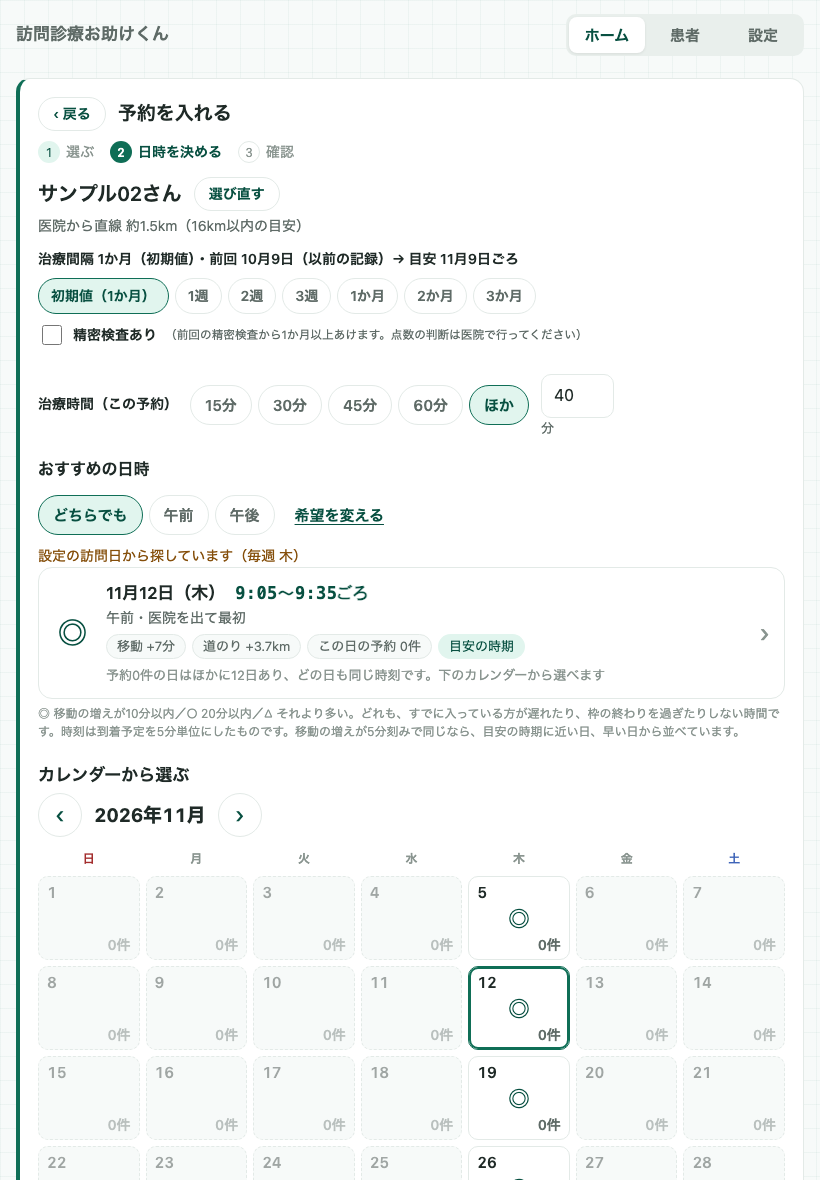
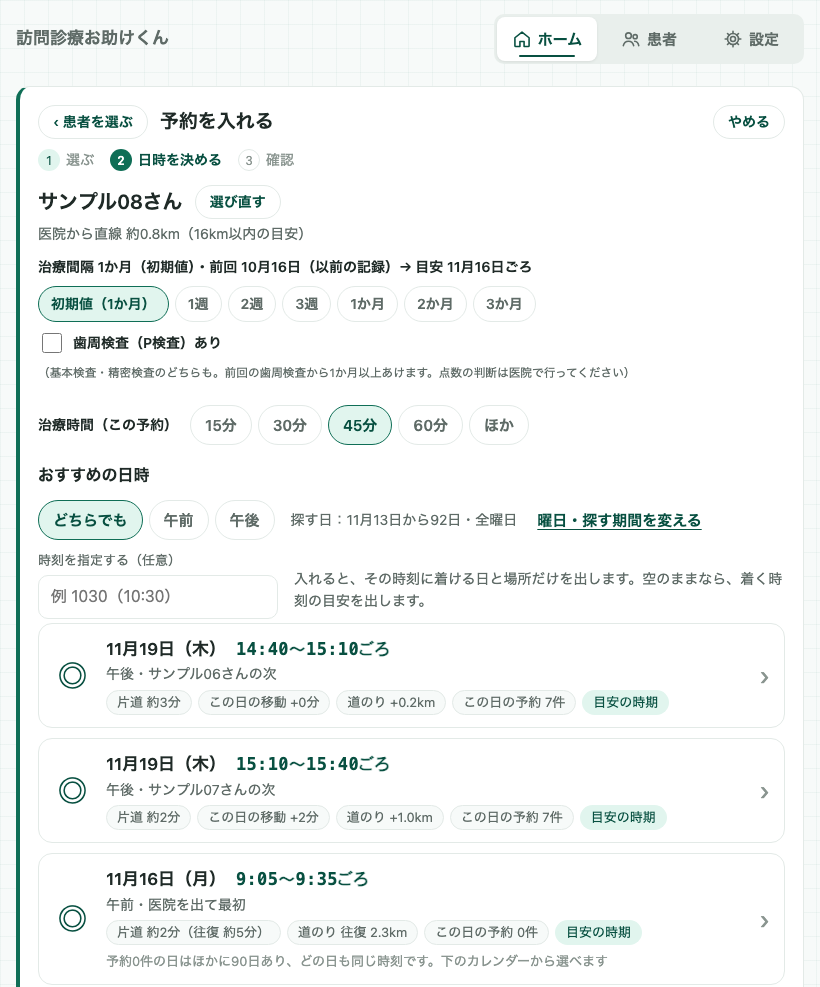
otasuke: retake the three app screens (app-day, app-book, app-confirm) from the current app; app-book at its natural height; alt texts as the new screens show

diff --git a/docs/otasuke/index.html b/docs/otasuke/index.html
@@ -435,7 +435,7 @@
     .benri-sec { background: var(--paper-deep); }
     .benri { display: grid; grid-template-columns: repeat(2, 1fr); gap: 18px; margin-top: 130px; }
     .benri-note { margin-top: 22px; font-size: 13px; color: var(--ink-faint); }
-    .feat-visual .device.wide img { aspect-ratio: auto; }
+    .feat-visual .device.wide img, .device.natural img { aspect-ratio: auto; }  /* app-book ends under the suggestions (shot_lp_app.py) */
     .feat-visual .paper-sheet { position: absolute; width: 40%; height: auto; top: -4%; right: -2%; transform: rotate(5deg); box-shadow: 0 24px 40px -24px rgba(30,40,35,.55); border: 1px solid var(--rule); background: #fff; z-index: 0; }
     .feat-visual .device.wide { position: relative; z-index: 1; max-width: none; margin: 0 24% 0 0; }
     @media (max-width: 900px) { .feat-visual .paper-sheet { width: 38%; right: 0; } }
@@ -500,8 +500,8 @@
       </div>
 
       <div class="hero-visual">
-        <div class="device back"><img src="/otasuke/img/app-book.png" alt="予約を入れる画面。おすすめの日時とカレンダー" width="820" height="1180"></div>
-        <div class="device front"><img src="/otasuke/img/app-day.png" alt="その日の訪問の画面。到着の目安と順番" width="820" height="1060"></div>
+        <div class="device back natural"><img src="/otasuke/img/app-book.png" alt="予約を入れる画面。おすすめの日時（◎○△）" width="820" height="987"></div>
+        <div class="device front"><img src="/otasuke/img/app-day.png" alt="その日の訪問の画面。次の訪問と、午前の順番・到着の目安" width="820" height="1093"></div>
       </div>
     </div>
     <p class="road-cap" aria-hidden="true">その日の訪問の順番</p><div class="road drive" role="img" aria-label="その日の回り方の絵。医院を出て、1・2・3の順に訪問し、医院へ戻る"><span class="stop home" style="left:8%"><b>医院</b></span><span class="stop " style="left:28%"><b>1</b></span><span class="stop " style="left:50%"><b>2</b></span><span class="stop " style="left:72%"><b>3</b></span><span class="stop home" style="left:92%"><b>医院</b></span><span class="asphalt"></span><span class="lane"><svg class="car" width="58" height="30" viewBox="0 0 46 24" aria-hidden="true"><path d="M3 17 V12.5 Q3 10.5 5 10.3 L12 9.6 L16.5 4.6 Q17.6 3.4 19.4 3.4 H30 Q31.8 3.4 32.9 4.7 L37 9.6 L41 10.6 Q43 11.1 43 13.2 V17 Q43 18 42 18 H4 Q3 18 3 17 Z" fill="#0F6E56"/><path d="M18.2 5.6 L14.6 9.6 H23.6 V5.6 Z M25.6 5.6 V9.6 H34.6 L31.2 5.6 Z" fill="#E1F5EE"/><path d="M26 12.2 H30 M28 10.2 V14.2" stroke="#FFFFFF" stroke-width="1.6" stroke-linecap="round"/><circle cx="12" cy="18" r="3.7" fill="#26322E" stroke="#FFFFFF" stroke-width="1.5"/><circle cx="34" cy="18" r="3.7" fill="#26322E" stroke="#FFFFFF" stroke-width="1.5"/></svg></span></div>
@@ -550,7 +550,7 @@
       <div class="feat rise">
         <div class="feat-visual">
           <p class="note">道のりを参考に<svg width="16" height="16" viewBox="0 0 16 16" aria-hidden="true"><path d="M8 2 V13 M3 8.5 L8 13.5 L13 8.5" fill="none" stroke="#FFFFFF" stroke-width="2.4" stroke-linecap="round" stroke-linejoin="round"/></svg></p>
-          <div class="device tilt"><img src="/otasuke/img/app-day.png" alt="その日の訪問の画面。到着の目安と順番、医院へ戻る時刻" width="820" height="1060" loading="lazy"></div>
+          <div class="device tilt"><img src="/otasuke/img/app-day.png" alt="その日の訪問の画面。次の訪問と、午前の順番・到着の目安" width="820" height="1093" loading="lazy"></div>
         </div>
         <div>
           <p class="verb">並べる</p>
@@ -563,7 +563,7 @@
       <div class="feat rev rise">
         <div class="feat-visual">
           <p class="note">◎ が、移動の増えが少ない日<svg width="16" height="16" viewBox="0 0 16 16" aria-hidden="true"><path d="M8 2 V13 M3 8.5 L8 13.5 L13 8.5" fill="none" stroke="#FFFFFF" stroke-width="2.4" stroke-linecap="round" stroke-linejoin="round"/></svg></p>
-          <div class="device tilt"><img src="/otasuke/img/app-book.png" alt="予約を入れる画面。おすすめの日時とカレンダー" width="820" height="1180" loading="lazy"></div>
+          <div class="device tilt natural"><img src="/otasuke/img/app-book.png" alt="予約を入れる画面。おすすめの日時（◎○△）" width="820" height="987" loading="lazy"></div>
         </div>
         <div>
           <p class="verb">探す</p>
@@ -576,7 +576,7 @@
       <div class="feat rise">
         <div class="feat-visual">
           <p class="note">入れた後の、その日<svg width="16" height="16" viewBox="0 0 16 16" aria-hidden="true"><path d="M8 2 V13 M3 8.5 L8 13.5 L13 8.5" fill="none" stroke="#FFFFFF" stroke-width="2.4" stroke-linecap="round" stroke-linejoin="round"/></svg></p>
-          <div class="device tilt"><img src="/otasuke/img/app-confirm.png" alt="予約の確認画面。入れた後のその日の予定" width="820" height="820" loading="lazy"></div>
+          <div class="device tilt"><img src="/otasuke/img/app-confirm.png" alt="予約の確認画面。入れた後のその日の予定" width="820" height="1093" loading="lazy"></div>
         </div>
         <div>
           <p class="verb">確かめる</p>

diff --git a/PROGRESS.md b/PROGRESS.md
@@ -444,3 +444,9 @@ docs/index.html
 
 ## 2026-11-11 19:53
 docs/kokuken/index.html
+
+## 2026-11-12 12:15
+docs/otasuke/img/app-book.png
+docs/otasuke/img/app-confirm.png
+docs/otasuke/img/app-day.png
+docs/otasuke/index.html
